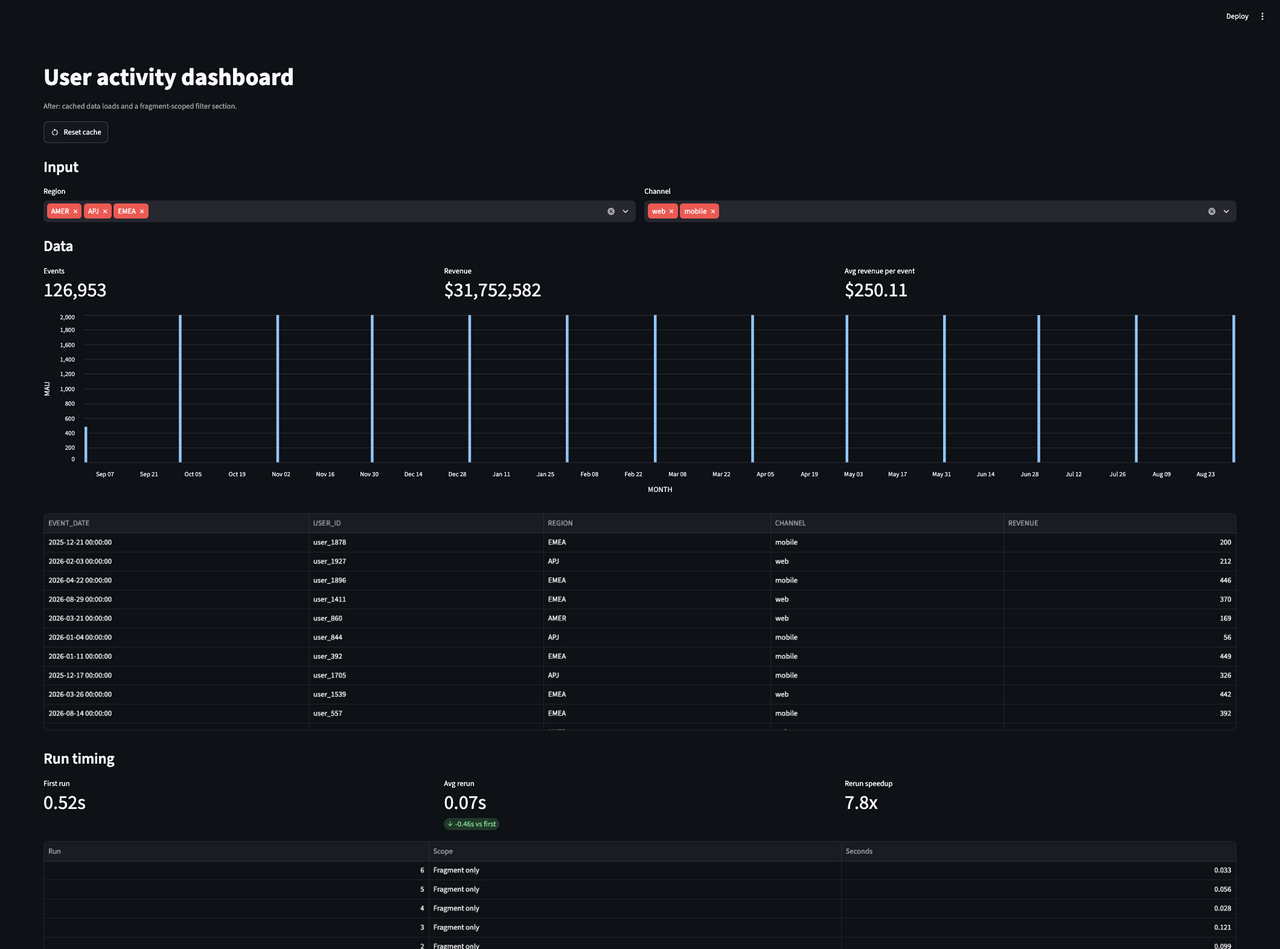
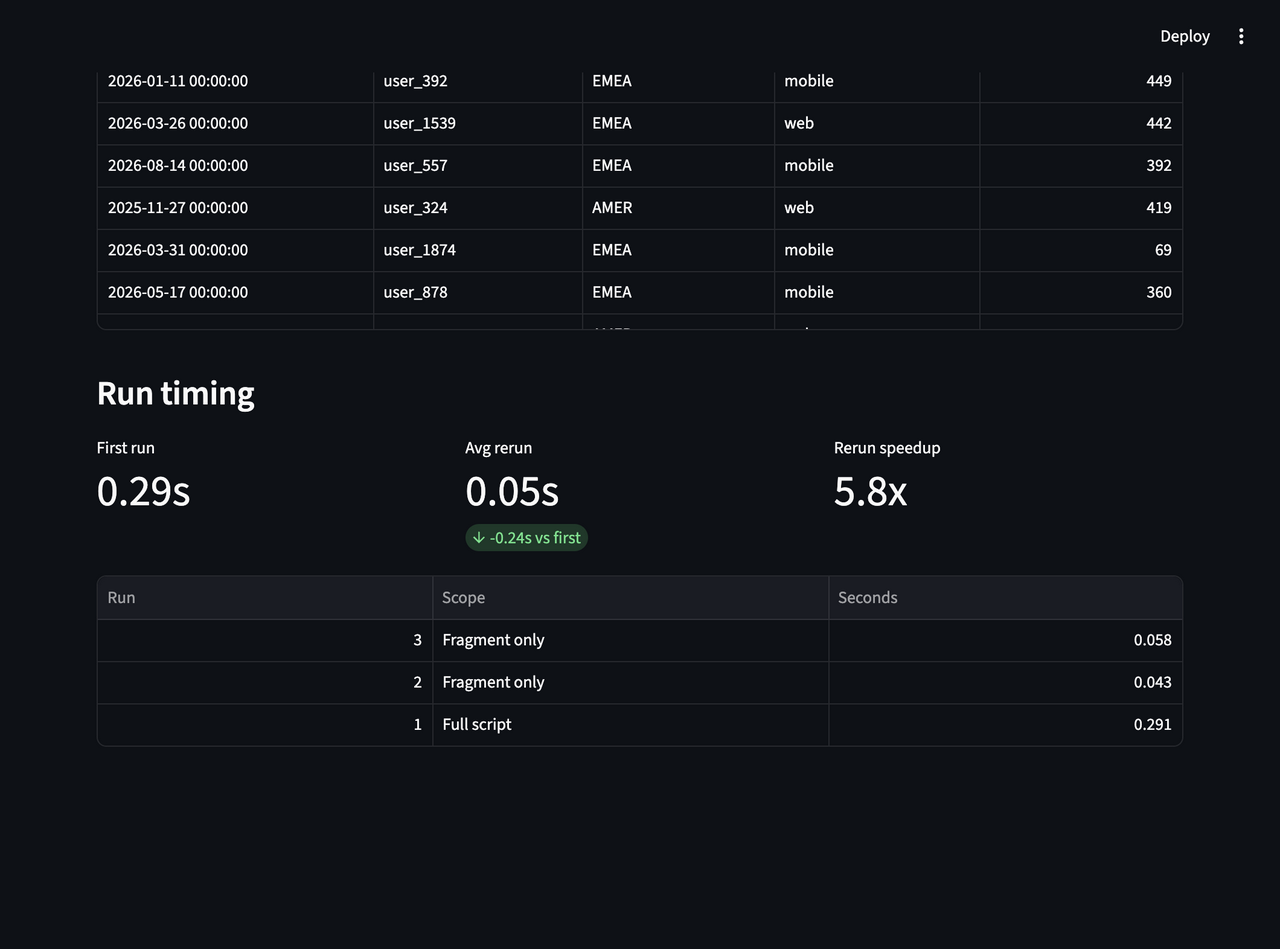
Add Snowflake screenshots, deploy paths and cleanup to the guide
Retake screenshots at 100% zoom with wider bars, add the Streamlit in Snowflake shots and timings from the DEVREL live test, and cover Community Cloud deploy, setup.sql and cleanup so the guide matches the tested end-to-end flow.

Generated with [Snowflake CoCo](https://docs.snowflake.com/en/user-guide/cortex-code/cortex-code)

diff --git a/speed-up-streamlit-apps-with-caching-and-fragments.md b/speed-up-streamlit-apps-with-caching-and-fragments.md
@@ -36,6 +36,8 @@ The diagram below shows how the after app fits together. The filter section is a
 - Access to a [Snowflake account](https://signup.snowflake.com/?utm_source=snowflake-devrel&utm_medium=developer-guides&utm_cta=developer-guides)
 - Access to [Cortex Code](https://docs.snowflake.com/en/user-guide/cortex-code/cortex-code), in Snowsight or CoCo Desktop
 - Python 3.11 or later and Git
+- Optional: the [Snowflake CLI](https://docs.snowflake.com/en/developer-guide/snowflake-cli/index), to deploy to Streamlit in Snowflake with `setup.sql`
+- Optional: a GitHub account, to deploy to Streamlit Community Cloud
 - Basic familiarity with Streamlit
 
 <!-- ------------------------ -->
@@ -57,8 +59,10 @@ The repo layout:
 |---|---|
 | `before/streamlit_app.py` | The starting dashboard: no caching, no fragment |
 | `after/streamlit_app.py` | The finished dashboard, for comparing with CoCo's changes |
+| `before/requirements.txt`, `after/requirements.txt` | Packages for running locally or on Streamlit Community Cloud |
 | `before/pyproject.toml`, `after/pyproject.toml` | Packages for Streamlit in Snowflake, including Snowpark |
 | `data/user_events.csv` | 200k synthetic user events |
+| `setup.sql` | Loads the CSV into a table and creates both apps in Streamlit in Snowflake |
 
 ### Run the Before App
 
@@ -70,7 +74,7 @@ If your shell can't find the `streamlit` command, run `python -m streamlit run b
 
 The dashboard opens at `http://localhost:8601`, with Region and Channel filters, metrics, a monthly active users chart, a data table, and a **Run timing** panel.
 
-![The before app on first load, with one Full script run in the Run timing panel](assets/before-app-first-load.png)
+![The before app on first load, with the Region and Channel filters, the Data metrics and the monthly active users chart](assets/before-app-first-load.png)
 
 <!-- ------------------------ -->
 ## Explore the Before App
@@ -257,17 +261,21 @@ In each app, click **Reset cache**, then change the Region filter a few times. I
 
 | | Before | After |
 |---|---|---|
-| First run | ~1.5s (2 CSV reads, plus startup) | ~0.5s (1 CSV read) |
-| Avg rerun | ~0.8s (2 CSV reads again, full script) | ~0.07s (0 reads, fragment only) |
+| First run | ~2.2s (2 CSV reads, plus startup) | ~0.3s (1 CSV read) |
+| Avg rerun | ~0.4s (2 CSV reads again, full script) | ~0.05s (0 reads, fragment only) |
 
 Your numbers will vary with hardware, but the pattern holds: the before app redoes all its work on every click, and the after app reuses it. The gap is larger in Streamlit in Snowflake, where each uncached rerun is a round trip to run a query. Running both apps there against the same table gave:
 
 | | Before | After |
 |---|---|---|
-| First run | ~5.0s (2 queries, plus container startup) | ~3.6s (1 query, plus container startup) |
-| Avg rerun | ~0.87s (2 queries again, full script) | ~0.015s (0 queries, fragment only) |
+| First run | ~4.1s (2 queries, plus container startup) | ~4.5s (1 query, plus container startup) |
+| Avg rerun | ~0.73s (2 queries again, full script) | ~0.017s (0 queries, fragment only) |
 
-Every rerun of the before app queries the warehouse twice. The after app's reruns don't touch the warehouse at all.
+The first runs are close because container startup dominates them. The reruns are where the apps differ: every rerun of the before app queries the warehouse twice, and the after app's reruns don't touch the warehouse at all.
+
+![The before app in Streamlit in Snowflake: every rerun is logged as Full script and takes 0.6 to 0.9 seconds](assets/sis-before-app-full-script-reruns.png)
+
+![The after app in Streamlit in Snowflake: after the first run, each rerun is logged as Fragment only and takes under 0.02 seconds](assets/sis-after-app-fragment-reruns.png)
 
 <!-- ------------------------ -->
 ## Load from Snowflake
@@ -292,24 +300,47 @@ def snowflake_session():
 - **Locally or on Streamlit Community Cloud:** there's no Snowflake session, so `load_events()` reads `data/user_events.csv`. No credentials are needed.
 - **In Streamlit in Snowflake:** `load_events()` queries the `USER_EVENTS_DEMO` table using the app owner's role.
 
-To run the after app in Streamlit in Snowflake:
+### Deploy to Streamlit Community Cloud
+
+The apps run on Community Cloud without changes, because they fall back to the bundled CSV:
+
+1. Fork the companion repo to your GitHub account.
+2. In [Streamlit Community Cloud](https://share.streamlit.io), select **Create app** » **Deploy a public app from GitHub**.
+3. Pick your fork and the `main` branch, and set the main file path to `after/streamlit_app.py`. Community Cloud installs the packages from `after/requirements.txt`.
+4. Select **Deploy**. Repeat with `before/streamlit_app.py` to compare the two apps.
+
+### Deploy to Streamlit in Snowflake
+
+To run the after app in Streamlit in Snowflake from Snowsight:
 
 1. **Create the table.** In Snowsight, select **Create** » **Table** » **From File**, upload `data/user_events.csv`, pick the database and schema for the app, and name the table `USER_EVENTS_DEMO`. Your role needs USAGE on the database and CREATE TABLE on the schema. To use your own table instead, change the query in `load_events()` to point at a table with the same columns.
 2. **Create the app on a container runtime.** Create a Streamlit app in the same database and schema, and choose the container runtime when you set it up. The container runtime runs Streamlit 1.50 or later, which supports `@st.fragment`, and it shares cached values across all viewers. The warehouse runtime offers a limited selection of Streamlit versions and caches per viewer session only. Your role needs CREATE STREAMLIT on the schema, plus USAGE on a compute pool, a query warehouse, and the external access integration from the next step.
 3. **Add the code and its dependencies.** Replace the app's `streamlit_app.py` and `pyproject.toml` with the files in `after/`. The repo's `pyproject.toml` lists `snowflake-snowpark-python`, which the container runtime needs to open a session. The runtime installs these packages from PyPI when it starts, so the app also needs an external access integration that allows PyPI. Ask your admin for one if you don't have it. Without it, the app fails to start with a package server error.
 4. **Run the app and confirm the source.** Run the app. The first open takes a minute or two while the container starts and installs the packages. The **Events** count should match `SELECT COUNT(*) FROM USER_EVENTS_DEMO WHERE REGION = 'AMER' AND CHANNEL = 'web'`. The data now comes from the query, and `@st.cache_data` caches the query result in the same way it cached the CSV read.
 
-If you'd rather use SQL, you can create the app from a stage after you upload the `after/` files to it. Replace the placeholders with your own names:
+![The after app running in Streamlit in Snowflake, showing 21,212 events for AMER and web from the USER_EVENTS_DEMO table](assets/sis-after-app-first-load.png)
+
+To compare both apps as in the table above, repeat steps 2 to 4 with the files in `before/`.
+
+If you'd rather use SQL, `setup.sql` in the repo does all of this for both apps. It creates the `USER_EVENTS_DEMO` table, uploads the CSV and both apps' `streamlit_app.py` and `pyproject.toml` files to a stage, loads the table, and creates `USER_ACTIVITY_BEFORE` and `USER_ACTIVITY_AFTER` on the container runtime. Replace the placeholders at the top of the file with your database, schema, warehouse, compute pool, and external access integration, then run it from the repo root with the [Snowflake CLI](https://docs.snowflake.com/en/developer-guide/snowflake-cli/index):
+
+```bash
+snow sql -f setup.sql
+```
+
+The file uses `PUT` to upload local files, so run it from the Snowflake CLI rather than a Snowsight worksheet. Each app is created from its own stage folder:
 
 ```sql
-CREATE STREAMLIT my_db.my_schema.user_activity_after
-  FROM '@my_db.my_schema.my_stage/after'
+CREATE OR REPLACE STREAMLIT USER_ACTIVITY_AFTER
+  FROM '@ST_CACHING_STAGE/after'
   MAIN_FILE = 'streamlit_app.py'
   RUNTIME_NAME = 'SYSTEM$ST_CONTAINER_RUNTIME_PY3_11'
-  COMPUTE_POOL = my_compute_pool
-  QUERY_WAREHOUSE = my_warehouse
-  EXTERNAL_ACCESS_INTEGRATIONS = (my_pypi_access_integration);
+  COMPUTE_POOL = MY_COMPUTE_POOL
+  QUERY_WAREHOUSE = MY_WAREHOUSE
+  EXTERNAL_ACCESS_INTEGRATIONS = (MY_PYPI_ACCESS_INTEGRATION);
 ```
+
+The last statement in the file prints the AMER and web event count, which the after app's **Events** metric should match.
 
 If the app doesn't start, check these:
 
@@ -324,6 +355,19 @@ To point the query at a different table, ask CoCo:
 ```console
 Change the query in load_events() to read from MY_DB.MY_SCHEMA.MY_EVENTS, and keep the column names the same.
 ```
+
+### Clean Up
+
+When you're done, drop the objects you created in Snowflake. The same statements are at the end of `setup.sql`:
+
+```sql
+DROP STREAMLIT IF EXISTS USER_ACTIVITY_BEFORE;
+DROP STREAMLIT IF EXISTS USER_ACTIVITY_AFTER;
+DROP STAGE IF EXISTS ST_CACHING_STAGE;
+DROP TABLE IF EXISTS USER_EVENTS_DEMO;
+```
+
+To remove a Community Cloud app, open its menu in your workspace and select **Delete**.
 
 <!-- ------------------------ -->
 ## Conclusion And Resources
